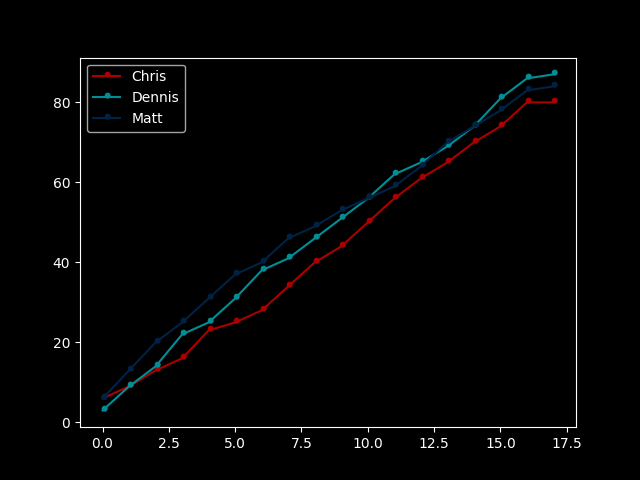
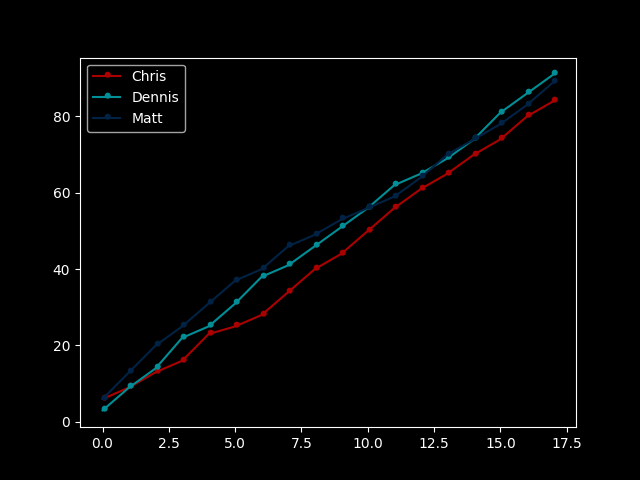
update2022-01-10

diff --git a/nfl-2021/index.html b/nfl-2021/index.html
@@ -315,13 +315,13 @@
         18
        </th>
        <td>
-        0
+        4
        </td>
        <td>
-        1
+        5
        </td>
        <td>
-        1
+        6
        </td>
       </tr>
       <tr>
@@ -329,13 +329,13 @@
         Total
        </th>
        <td>
-        80
-       </td>
-       <td>
-        87
-       </td>
-       <td>
         84
+       </td>
+       <td>
+        91
+       </td>
+       <td>
+        89
        </td>
       </tr>
      </tbody>
@@ -484,7 +484,7 @@
   <html>
    <body>
     <p id="updates">
-     updated: 2022-01-09 ...version: C28_g
+     updated: 2022-01-10 ...version: A03_O
     </p>
    </body>
   </html>
